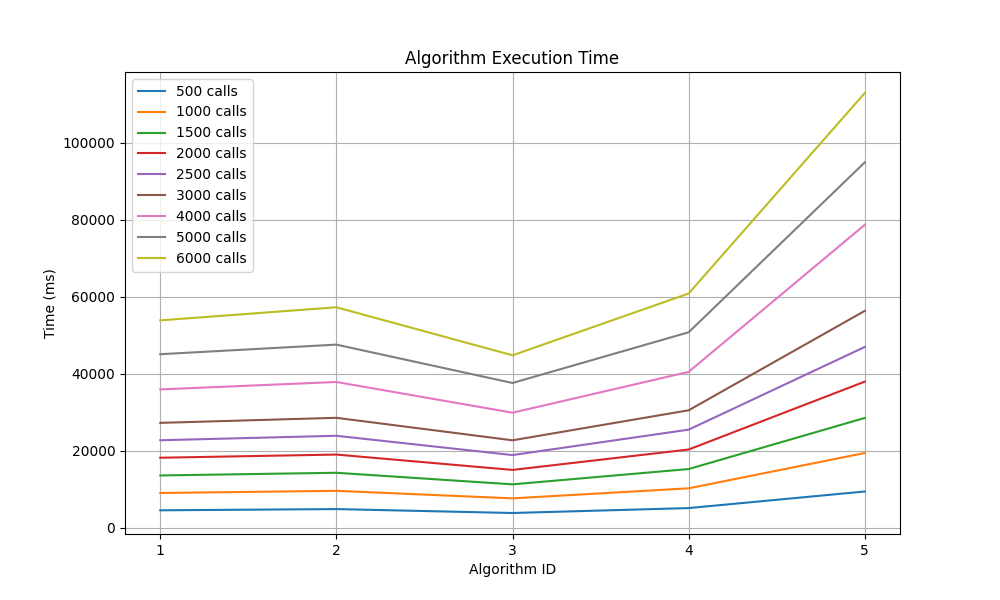
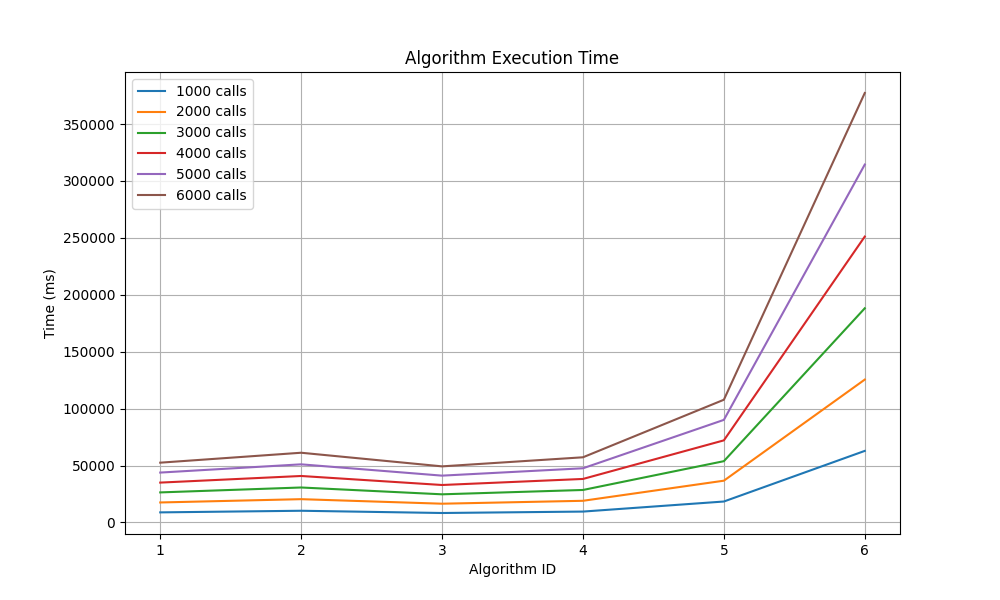
update: baseline algorithm time complexity

diff --git a/src/plot/plot.py b/src/plot/plot.py
@@ -13,7 +13,7 @@ plt.figure(figsize=(10, 6))
 
 # Iterate over unique 'calls' values and plot a line for each
 for calls in df['calls'].unique():
-    subset = df[df['calls'] == calls]
+    subset = df[(df['calls'] == calls) & (df['algorithm_id'] != 6)]
     plt.plot(subset['algorithm_id'], subset['time(ms)'], label=f'{calls} calls')
 
 plt.title('Algorithm Execution Time')
@@ -22,5 +22,5 @@ plt.ylabel('Time (ms)')
 plt.legend()
 plt.grid(True)
 plt.xticks(df['algorithm_id'].unique())
-plt.savefig("../plot.png")
+plt.savefig("../plot2.png")
 plt.show()

diff --git a/README.md b/README.md
@@ -111,6 +111,34 @@ void algo5(Mat* img, int radius, int cx, int cy) {
 }
 ```
 
+6. **Algorithm 6: Brute Force with Polar Coordinates**
+
+- Time Complexity: $O(R \times 360)$
+
+- Explanation: The outer loop runs "radius" times, and the inner loop runs 360 times for each iteration of the outer loop.
+
+```c++
+void algo6(Mat* img, int radius, int cx, int cy, uint8_t color) {
+	for (int r = 1; r < radius; r += 1) {
+		for (double a = 0.0; a < 360.0; a += 5.0) {
+			int x = cx + r * cos(a * 3.1416 / 180.0);
+			int y = cy + r * sin(a * 3.1416 / 180.0);
+			img->at<uchar>(x, y) = color;
+		}
+	}
+}
+```
+
+This clearly is the slowest algorithm, not because of its time complexity, but for the redundancy of the pixels computed. In the execution time comparison plot, all algorithms look like the following:
+
+![img](./src/plot.png)
+
+And this rules out the possibility of using algorithm #6 if performance is the aim. With the purpose of choosing another one, let's plot without the big difference that the algorithm #6 represents:
+
+![img](./src/plot2.png)
+
+Here, we can clearly see algorithm #3 is the fastest one.
+
 ## Run The Code
 
 1. You must have installed in your system:
@@ -126,8 +154,6 @@ cmake .
 make
 ./main
 ```
-
-![img](./src/plot.png)
 
 ## Sources
 
